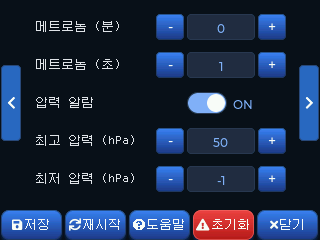
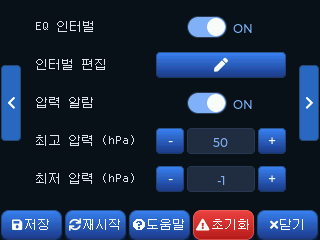
v1.1d — EQ 인터벌 반영: 매뉴얼 §7.1 개정 + 저전량 보호 + 랜딩 카드 + 다운로드 행 + 스크린샷 3장

diff --git a/manual.html b/manual.html
@@ -134,7 +134,7 @@
   <h1>사용자 매뉴얼 — 상세 사용설명서</h1>
   <div class="meta">
     프리다이빙 이퀄라이징 훈련 장비<br>
-    펌웨어 v1.1c 기준 · 최종 갱신 2026-07-17 · 빠른 시작은 별도 인쇄물 <a href="quickstart.html">quickstart</a> 참고
+    펌웨어 v1.1d 기준 · 최종 갱신 2026-07-19 · 빠른 시작은 별도 인쇄물 <a href="quickstart.html">quickstart</a> 참고
   </div>
 </header>
 
@@ -183,6 +183,8 @@
     <ul><li><strong>물리 전원 버튼</strong>을 약 3초간 길게 누르기</li>
         <li><strong>메인 화면의 [전원] 버튼</strong> 누르기</li></ul></li>
   <li><strong>자동 종료</strong>: 설정 시간 동안 조작이 없으면 자동으로 꺼집니다 (<a href="#s8_4">8.4</a>).</li>
+  <li><strong>저전량 보호</strong>: 배터리가 <strong>15% 이하</strong>로 내려가면 주기적으로 경고음이 울립니다. <strong>5% 이하</strong>가 되면 화면에 10초 카운트다운이 표시된 뒤, 진행 중이던 측정을 저장하고 스스로 꺼집니다.
+    <ul><li>경고음이 들리면 충전 케이블을 연결해 주세요. 충전 중에는 저전량 종료가 동작하지 않습니다.</li></ul></li>
 </ul>
 
 <h3 id="s1_3">1.3 SD 카드</h3>
@@ -202,7 +204,7 @@
     <tr><td><strong>크기</strong></td><td>본체 90 × 77.6 × 25 mm · 가방 160 × 100 × 70 mm</td></tr>
     <tr><td><strong>압력 측정</strong></td><td>압력 센서 · 40Hz 샘플링 · 부팅 시 자동 영점 보정</td></tr>
     <tr><td><strong>저장</strong></td><td>내부 메모리 + microSD 슬롯 · SD 카드는 미포함(별매)</td></tr>
-    <tr><td><strong>오디오</strong></td><td>스피커 (압력 알람 · 메트로놈)</td></tr>
+    <tr><td><strong>오디오</strong></td><td>스피커 (압력 알람 · EQ 인터벌 알람)</td></tr>
     <tr><td><strong>전원</strong></td><td>내장 리튬폴리머 배터리 3.7V 1,000mAh (USB 충전)</td></tr>
     <tr><td><strong>커넥터</strong></td><td>4mm 공압 퀵 커넥터</td></tr>
     <tr><td><strong>연결 · 업데이트</strong></td><td>USB로 PC 파일 전송 · SD 카드로 펌웨어 업데이트</td></tr>
@@ -519,19 +521,30 @@
 <h2 id="sec7">7. 리듬 훈련</h2>
 <p>이퀄라이징은 <strong>일정한 간격으로 반복</strong>할 때 안정적인 리듬이 잡힙니다. Equalscope는 이를 돕는 두 가지 도구를 제공합니다.</p>
 
-<h3 id="s7_1">7.1 메트로놈</h3>
-<p>설정한 간격마다 <strong>비프음 + 화면 LED 시각 신호</strong>로 박자를 알려줍니다.</p>
+<h3 id="s7_1">7.1 EQ 인터벌</h3>
+<p>구간별로 <strong>(간격 × 횟수)</strong>를 정해 두면, 측정을 시작하는 순간부터 그 순서대로
+<strong>비프음 + 화면 시각 신호</strong>가 울립니다. 하강 시나리오에 맞춰 이퀄 리듬을 훈련하는 도구입니다.</p>
+<div class="figrow pair wide">
+  <figure><img src="assets/screen-settings2.png" alt="설정 페이지 2 — EQ 인터벌 토글과 인터벌 편집 버튼"><figcaption>설정 페이지 2 — EQ 인터벌 토글 + [인터벌 편집]</figcaption></figure>
+  <figure><img src="assets/screen-interval-edit.png" alt="인터벌 편집 화면 — 4구간 (간격 × 횟수)"><figcaption>인터벌 편집 — 구간별 (간격 × 횟수), 상단에 합계 표시</figcaption></figure>
+</div>
 <ul>
-  <li><strong>설정 위치</strong>: 설정 페이지 2 — <strong>메트로놈(분)</strong>, <strong>메트로놈(초)</strong> 두 항목 (<a href="#s8_2">8.2</a>)
-    <ul><li>분: 0~9, 초: 0~59 범위에서 직접 지정</li>
-        <li><strong>둘 다 0이면 꺼짐</strong></li></ul></li>
-  <li><strong>활용 1 — 이퀄 리듬</strong>: 1~5초 같은 짧은 간격으로 두면, 매 박자에 한 번씩 이퀄라이징하는 <strong>일정한 리듬</strong> 훈련에 쓸 수 있습니다.</li>
-  <li><strong>활용 2 — CO₂ 인터벌</strong>: 분·초를 함께 쓰면 "2분 숨 참기 + 30초 회복" 같은 <strong>CO₂ 테이블 인터벌</strong>의 구간 알람으로도 활용할 수 있습니다.</li>
+  <li><strong>설정 위치</strong>: 설정 페이지 2 — <strong>EQ 인터벌</strong> 토글 + <strong>[인터벌 편집]</strong> 버튼 (<a href="#s8_2">8.2</a>)</li>
+  <li><strong>편집 화면</strong>: 최대 <strong>4구간</strong>, 각 구간은 <strong>간격(초) × 횟수</strong>로 지정합니다.
+    <ul><li><strong>간격 0 = 구간 없음</strong> (해당 구간 건너뜀)</li>
+        <li><strong>횟수 0 = 무한 반복(∞)</strong> — 그 구간의 간격으로 계속 울립니다</li>
+        <li>상단에 <strong>합계 횟수·총 시간</strong>이 실시간으로 표시되어 시퀀스 전체 길이를 바로 확인할 수 있습니다</li></ul></li>
+  <li><strong>동작</strong>: 측정 <strong>[시작]과 동시에</strong> 구간 1부터 순서대로 진행합니다. 알람 시점이 그래프의 시간축과 일치하므로, 훈련 후 그래프에서 그대로 되짚어 볼 수 있습니다.</li>
+  <li><strong>활용 예</strong>: "2초×5 → 4초×5 → 8초×5" — 하강 초반에는 잦게, 내려갈수록 간격을 늘리는 식으로 수심 구간별 이퀄 빈도를 미리 설계해 훈련합니다. 한 구간만 두고 무한 반복으로 쓰면 단순 메트로놈처럼도 쓸 수 있습니다.</li>
+  <li><strong>그래프 알람 마커</strong>: 알람이 울린 위치가 그래프에 <strong>세로선</strong>으로 표시됩니다 (구간이 바뀌는 첫 알람은 더 길게). 줌·스크롤을 해도 함께 움직여, <strong>"알람 시점 vs 실제 이퀄"</strong>을 비교하며 리듬을 점검할 수 있습니다.</li>
+  <li><strong>기록 보존</strong>: 알람 위치는 측정 CSV 파일에도 저장되어, 나중에 파일을 다시 열어도 마커가 그대로 표시됩니다.</li>
 </ul>
+<figure class="fig shot"><img src="assets/screen-interval-chart.png" alt="측정 화면 — EQ 인터벌 알람 세로선 마커"><figcaption>측정 중 그래프 — 알람 시점이 세로선 마커로 남아 계획 대비 실제 이퀄을 비교</figcaption></figure>
+<blockquote>이전 버전의 <strong>메트로놈</strong> 설정은 업데이트 시 "1구간 무한 반복"으로 자동 이전됩니다.</blockquote>
 
 <h3 id="s7_2">7.2 스톱워치</h3>
 <p>측정 중 경과 시간을 <strong>hh:mm:ss</strong>로 메인 화면 좌측 상단에 실시간 표시합니다.
-트레이닝 진행 시간을 한눈에 확인할 수 있고, 메트로놈과 함께 인터벌 훈련의 시간 관리에 쓰입니다.</p>
+트레이닝 진행 시간을 한눈에 확인할 수 있고, EQ 인터벌과 함께 인터벌 훈련의 시간 관리에 쓰입니다.</p>
 
 <!-- 8 -->
 <h2 id="sec8">8. 설정</h2>
@@ -547,7 +560,7 @@
   <thead><tr><th>페이지</th><th>항목</th></tr></thead>
   <tbody>
     <tr><td><strong>1</strong></td><td>테마 · 자동 종료 · 밝기 · 볼륨 · 파일 전송(USB)</td></tr>
-    <tr><td><strong>2</strong></td><td>메트로놈(분) · 메트로놈(초) · 압력 알람 · 최고 압력 · 최저 압력</td></tr>
+    <tr><td><strong>2</strong></td><td>EQ 인터벌 · 인터벌 편집 · 압력 알람 · 최고 압력 · 최저 압력</td></tr>
     <tr><td><strong>3</strong></td><td>Y축 최고 · Y축 최저 · 기본 줌 · 언어</td></tr>
   </tbody>
 </table>
@@ -576,9 +589,9 @@
 <table class="setbl">
   <thead><tr><th>항목</th><th>페이지</th><th>범위</th><th>설명</th></tr></thead>
   <tbody>
-    <tr><td><strong>볼륨</strong></td><td>1</td><td>0~100 %</td><td>메트로놈·알람음 크기 (슬라이더)</td></tr>
-    <tr><td><strong>메트로놈(분)</strong></td><td>2</td><td>0~9</td><td>메트로놈 간격의 분 (<a href="#s7_1">7.1</a>)</td></tr>
-    <tr><td><strong>메트로놈(초)</strong></td><td>2</td><td>0~59</td><td>메트로놈 간격의 초 (분·초 모두 0이면 꺼짐)</td></tr>
+    <tr><td><strong>볼륨</strong></td><td>1</td><td>0~100 %</td><td>인터벌·알람음 크기 (슬라이더)</td></tr>
+    <tr><td><strong>EQ 인터벌</strong></td><td>2</td><td>ON / OFF</td><td>구간별 알람 시퀀스 켜기/끄기 (<a href="#s7_1">7.1</a>)</td></tr>
+    <tr><td><strong>인터벌 편집</strong></td><td>2</td><td>4구간 (간격×횟수)</td><td>간격 0 = 구간 없음 · 횟수 0 = 무한 반복(∞)</td></tr>
     <tr><td><strong>압력 알람</strong></td><td>2</td><td>ON / OFF</td><td>켜면 설정한 압력 범위를 벗어날 때 알람 + 그래프에 훈련 밴드 표시 (<a href="#s4_3">4.3</a>)</td></tr>
     <tr><td><strong>최고 압력</strong></td><td>2</td><td>0~150 hPa (5 단위)</td><td>알람·훈련 밴드의 상한</td></tr>
     <tr><td><strong>최저 압력</strong></td><td>2</td><td>-20~100 hPa</td><td>알람·훈련 밴드의 하한 (0 부근은 1 단위로 미세 조정)</td></tr>
@@ -677,7 +690,7 @@
 
 </main>
 
-<footer>Equalscope 사용자 매뉴얼 · 펌웨어 v1.1c 기준 · © 2026 별바다다이브</footer>
+<footer>Equalscope 사용자 매뉴얼 · 펌웨어 v1.1d 기준 · © 2026 별바다다이브</footer>
 
 </div>
 </body>

diff --git a/download/index.html b/download/index.html
@@ -72,7 +72,13 @@
         <thead><tr><th>버전</th><th>날짜</th><th>변경 내용</th><th>다운로드</th></tr></thead>
         <tbody>
           <tr>
-            <td class="ver">v1.1c <span class="latest">최신</span></td>
+            <td class="ver">v1.1d <span class="latest">최신</span></td>
+            <td class="date">2026-07-19</td>
+            <td>EQ 인터벌 추가 — 구간별 (간격×횟수) 알람 시퀀스로 하강에 맞춘 이퀄 리듬 훈련, 알람 시점 그래프 마커·CSV 기록 (옛 메트로놈 설정은 자동 이전) · 저전량 보호(15% 경고 / 5% 자동 저장·종료) · 신규 기본 밝기 50%.</td>
+            <td class="dl"><a class="dlbtn" href="https://github.com/byulbada/equalscope-2.8-firmware/releases/download/v1.1d/equpdate_1.1d.bin">내려받기 <small>.bin</small></a><div class="fname">equpdate_1.1d.bin</div></td>
+          </tr>
+          <tr>
+            <td class="ver">v1.1c</td>
             <td class="date">2026-07-17</td>
             <td>BTV(핸즈프리) 패턴 분석 추가 — 분석 패턴 6종으로 확대. 공기를 밀지 않고 이관을 여는 BTV 기법의 저압 진동을 자동 인식하고 전용 조언을 제공합니다.</td>
             <td class="dl"><a class="dlbtn" href="https://github.com/byulbada/equalscope-2.8-firmware/releases/download/v1.1c/equpdate_1.1c.bin">내려받기 <small>.bin</small></a><div class="fname">equpdate_1.1c.bin</div></td>

diff --git a/index.html b/index.html
@@ -330,7 +330,7 @@
       <div class="device"><img loading="lazy" src="assets/screen-measure.png" alt="실시간 측정 화면 — 압력 그래프와 참조 그래프 겹쳐 보기"><div class="cap"><b>실시간 측정 &amp; 참조 비교</b>좋은 샘플을 겹쳐 놓고 내 그래프와 비교</div></div>
       <div class="device"><img loading="lazy" src="assets/screen-analysis.png" alt="분석 화면 — 통계 요약과 기술 추정, 자동 조언"><div class="cap"><b>훈련 후 분석 &amp; 조언</b>통계 요약 + 기술 추정 + 간단 조언</div></div>
       <div class="device"><img loading="lazy" src="assets/screen-files.png" alt="파일 관리 화면 — 내부 메모리/SD 카드 파일 목록"><div class="cap"><b>파일 관리</b>내부 메모리·SD 간 복사, 참조 등록, 삭제</div></div>
-      <div class="device"><img loading="lazy" src="assets/screen-settings.png" alt="설정 화면 — 테마, 자동 종료, 밝기 등"><div class="cap"><b>설정</b>테마·밝기·알람·메트로놈·언어 등</div></div>
+      <div class="device"><img loading="lazy" src="assets/screen-settings.png" alt="설정 화면 — 테마, 자동 종료, 밝기 등"><div class="cap"><b>설정</b>테마·밝기·알람·EQ 인터벌·언어 등</div></div>
     </div>
   </section>
 
@@ -347,7 +347,7 @@
       <div class="feat"><h4>3점 터치 스크린샷<span class="newtag">기존 장비에 없던</span></h4><p>세 손가락으로 화면을 터치하면 보이는 그대로 이미지 저장 — 교육생 피드백, 기록 공유 자료로 바로 씁니다.</p></div>
       <div class="feat"><h4>SD 카드 펌웨어 업데이트<span class="newtag">기존 장비에 없던</span></h4><p>SD 카드에 파일만 넣고 켜면 자동 업데이트. PC 프로그램도, 앱도 필요 없이 — 구매 후에도 새 기능이 계속 추가됩니다.</p></div>
       <div class="feat"><h4>최고/최저 압력 알람<span class="newtag">기존 장비에 없던</span></h4><p>설정 범위를 벗어나면 소리로 알림 — 화면을 계속 보지 않아도 됩니다.</p></div>
-      <div class="feat"><h4>메트로놈 · 스톱워치<span class="newtag">기존 장비에 없던</span></h4><p>일정한 리듬으로 반복 훈련. 긴 간격은 CO2 테이블 같은 호흡 훈련에도 활용.</p></div>
+      <div class="feat"><h4>EQ 인터벌<span class="newtag">기존 장비에 없던</span></h4><p>구간별로 (간격 × 횟수) 알람 시퀀스를 설계 — "2초×5번, 4초×5번…" 식으로 하강에 맞춘 이퀄 리듬을 훈련. 알람 시점이 그래프에 마커로 남아 계획 대비 실제를 비교합니다.</p></div>
       <div class="feat valve"><img loading="lazy" class="dialimg" src="assets/valve-dial.jpg" alt="눈금 다이얼"><h4>압력 조절 밸브 (눈금)<span class="newtag">기존 장비에 없던</span></h4><p><b>눈금이 있는 압력 조절 다이얼.</b> 자주 쓰는 설정값을 정확히 반복할 수 있습니다. 입 안 공기가 줄어드는 수심을 지상에서 시뮬레이션(특히 마우스필).</p></div>
       <div class="feat"><h4>멀티 테마 · 한국어/영어<span class="newtag">기존 장비에 없던</span></h4><p>7가지 색상 테마와 한국어·영어 지원. 밝기·알람·자동 종료 등 세부 설정도 장비에서 바로.</p></div>
     </div>
@@ -431,7 +431,7 @@
       <tr><th>크기</th><td>본체 90 × 77.6 × 25 mm · 가방 160 × 100 × 70 mm</td></tr>
       <tr><th>압력 측정</th><td>압력 센서 · 40Hz 샘플링 · 부팅 시 자동 영점 보정</td></tr>
       <tr><th>저장</th><td>내부 메모리 + microSD 슬롯 (CSV 저장 / 화면 캡처 PNG) · SD 카드는 미포함(별매)</td></tr>
-      <tr><th>오디오</th><td>스피커 — 압력 알람 · 메트로놈</td></tr>
+      <tr><th>오디오</th><td>스피커 — 압력 알람 · EQ 인터벌 알람</td></tr>
       <tr><th>전원</th><td>내장 리튬폴리머 배터리 3.7V 1,000mAh (USB 충전)</td></tr>
       <tr><th>연결 · 업데이트</th><td>USB로 PC 파일 전송 · SD 카드로 펌웨어 업데이트</td></tr>
       <tr><th>커넥터</th><td>4mm 공압 퀵 커넥터</td></tr>